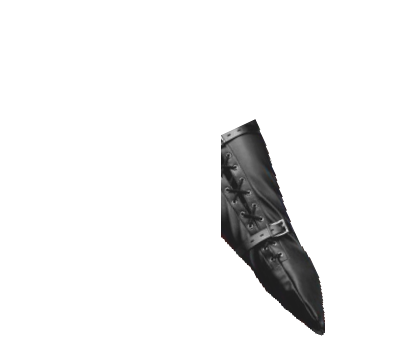
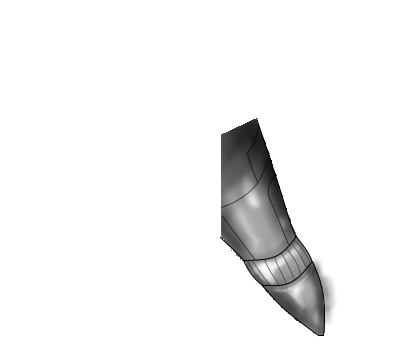
Added Futuristic Armbinder

Changed region(s): [[0.54, 0.3429, 0.84, 0.9714]]

diff --git a/BondageClub/Screens/Inventory/ItemArms/FuturisticArmbinder/FuturisticArmbinder.js b/BondageClub/Screens/Inventory/ItemArms/FuturisticArmbinder/FuturisticArmbinder.js
@@ -1,0 +1,56 @@
+"use strict";
+
+var InventoryItemArmsFuturisticArmbinderOptions = [
+	{
+		Name: "Normal",
+		Property: { Type: null, Difficulty: 0 },
+	},
+	{
+		Name: "Tight",
+		Property: { Type: "Tight", Difficulty: 7 },
+	},
+];
+
+// Loads the item extension properties
+function InventoryItemArmsFuturisticArmbinderLoad() {
+ 	var C = (Player.FocusGroup != null) ? Player : CurrentCharacter;
+	if (!InventoryItemMouthFuturisticPanelGagValidate(C)) {
+		InventoryItemMouthFuturisticPanelGagLoadAccessDenied()
+	} else
+	ExtendedItemLoad(InventoryItemArmsFuturisticArmbinderOptions, "SelectFuturisticArmbinderType");
+}
+
+// Draw the item extension screen
+function InventoryItemArmsFuturisticArmbinderDraw() {
+	var C = (Player.FocusGroup != null) ? Player : CurrentCharacter;
+	if (!InventoryItemMouthFuturisticPanelGagValidate(C)) {
+		InventoryItemMouthFuturisticPanelGagDrawAccessDenied()
+	} else
+		ExtendedItemDraw(InventoryItemArmsFuturisticArmbinderOptions, "FuturisticArmbinderType");
+}
+
+// Catches the item extension clicks
+function InventoryItemArmsFuturisticArmbinderClick() {
+	var C = (Player.FocusGroup != null) ? Player : CurrentCharacter;
+	if (!InventoryItemMouthFuturisticPanelGagValidate(C)) {
+		InventoryItemMouthFuturisticPanelGagClickAccessDenied()
+	} else
+		ExtendedItemClick(InventoryItemArmsFuturisticArmbinderOptions);
+}
+
+function InventoryItemArmsFuturisticArmbinderExit() {
+	InventoryItemMouthFuturisticPanelGagExitAccessDenied()
+}
+	
+function InventoryItemArmsFuturisticArmbinderValidate(C, Option) {
+	return InventoryItemMouthFuturisticPanelGagValidate(C, Option)
+}
+
+function InventoryItemArmsFuturisticArmbinderPublishAction(C, Option) {
+	var msg = "FuturisticArmbinderSet" + Option.Name;
+	var Dictionary = [
+		{ Tag: "SourceCharacter", Text: Player.Name, MemberNumber: Player.MemberNumber },
+		{ Tag: "DestinationCharacter", Text: C.Name, MemberNumber: C.MemberNumber },
+	];
+	ChatRoomPublishCustomAction(msg, true, Dictionary);
+}

diff --git a/BondageClub/Assets/Female3DCG/Female3DCG.js b/BondageClub/Assets/Female3DCG/Female3DCG.js
@@ -1915,10 +1915,11 @@ var AssetFemale3DCG = [
 				]
 			},
 			{
-				Name: "FuturisticArmbinder", Category: ["Sci Fi"], Fetish: ["Metal"], Priority: 6, Value: 80, Difficulty: 10, SelfBondage: 6, Time: 25, RemoveTime: 10, AllowLock: true, SetPose: ["BackElbowTouch"], Effect: ["Block", "Prone"], Block: ["ItemHands"], SelfUnlock: false,
+				Name: "FuturisticArmbinder", Category: ["Sci Fi"], Fetish: ["Metal"], Random: false, Priority: 31, Value: 80, Difficulty: 10, Left: 0, Top: 0, SelfBondage: 6, Time: 20, RemoveTime: 15, Audio: "FuturisticApply", AllowLock: true, DefaultColor: ["#40812C", "#555555", "Default",], SetPose: ["BackElbowTouch"], Effect: ["Block", "Prone"], Block: ["ItemHands"], SelfUnlock: false, AllowType: ["Tight"], Extended: true, AlwaysExtend: true,
 				Layer: [
-					{ Name: "Binder" , ParentGroup: null, },
-					{ Name: "Straps" , ParentGroup: null,Priority: 31, Left: 0, Top: 0,  }
+					{ Name: "Display" , ParentGroup: null, HasType: false, Priority: 31, Left: 0, Top: 0,   },
+					{ Name: "Binder" , ParentGroup: null, AllowTypes: [""], Priority: 6, Left: 50, Top: 200,	},
+					{ Name: "Straps", Priority: 31, HasType: false,  Left: 0, Top: 0,  }
 				]
 			},
 			{ Name: "SeamlessLatexArmbinder", Fetish: ["Latex"], Priority: 6, Value: 60, Difficulty: 10, SelfBondage: 7, Time: 25, RemoveTime: 10, AllowLock: true, SetPose: ["BackElbowTouch"], Effect: ["Block", "Prone"], Block: ["ItemHands"], SelfUnlock: false },

diff --git a/BondageClub/index.html b/BondageClub/index.html
@@ -207,6 +207,7 @@
 <script src="Screens/Inventory/ItemDevices/Coffin/Coffin.js"></script>
 <script src="Screens/Inventory/ItemDevices/CryoCapsule/CryoCapsule.js"></script>
 <script src="Screens/Inventory/ItemArms/LeatherStraitJacket/LeatherStraitJacket.js"></script>
+<script src="Screens/Inventory/ItemArms/FuturisticArmbinder/FuturisticArmbinder.js"></script>
 <script src="Screens/Inventory/ItemArms/CollarCuffs/CollarCuffs.js"></script>
 <script src="Screens/Inventory/ItemDevices/InflatableBodyBag/InflatableBodyBag.js"></script>
 <script src="Screens/Inventory/ItemArms/WristShackles/WristShackles.js"></script>

diff --git a/BondageClub/Scripts/Audio.js b/BondageClub/Scripts/Audio.js
@@ -91,7 +91,7 @@ var AudioActions = [
 		Sound: "Shocks"
 	},
 	{
-		IsAction: (data) => ["FuturisticChastityBeltClosedBack", "FuturisticChastityBeltOpenBack", "InventoryItemBreastFuturisticBraSet", "FuturisticHeelsSet"].find(A => data.Content.includes(A)),
+		IsAction: (data) => ["FuturisticChastityBeltClosedBack", "FuturisticChastityBeltOpenBack", "InventoryItemBreastFuturisticBraSet", "FuturisticHeelsSet", "FuturisticArmbinderSet"].find(A => data.Content.includes(A)),
 		Sound: "SciFiConfigure"
 	},
 	{
